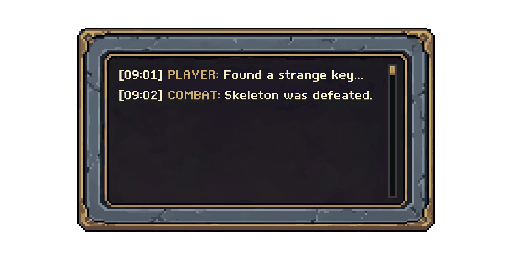
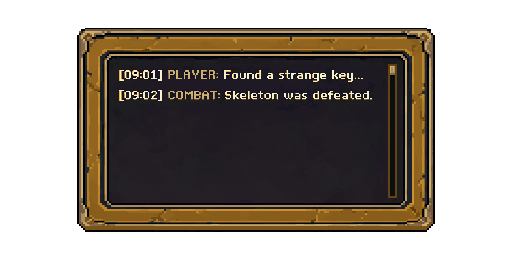
CAS-458: Nueva-partida confirm dialog (red destructive) + gold console frame
- Pause 'Nueva partida (borrar guardado)' now reads destructive-red and ARMS an
  explicit confirmation dialog ('¿Borrar la partida guardada? — no se puede deshacer'
  · SÍ, BORRAR / Cancelar); while armed the replay+new-game band is not tap-registered
  so a stray tap can never fall through and wipe a run (pauseTap first-match-wins).
- Chat console frame recolored grey-stone → gold/brass to match the stat/paperdoll/
  backpack HUD panels (tools/cas458-console-gold.mjs: luminance-preserving chroma remap,
  geometry pixel-identical so hud.js WELL.con stays valid).
- Incidental mobile fixes already staged in the render.js working tree by prior runs:
  CAS-1174 ≤480px zone/objetivo/tracker reflow + minimap/consumable scaling, CAS-453
  modal hint auto-fit (hintFit) so 390px shortcut lines no longer clip.

Changed region(s): [[0.1562, 0.125, 0.8438, 0.9062], [0.6562, 0.375, 0.6875, 0.4062]]

diff --git a/render/render.js b/render/render.js
@@ -1218,14 +1218,19 @@ export function createRenderer(ctx){
     // kept always-visible (even rank 0, with kills-to-next) so the long-term hook that grows
     // across sessions is legible from minute one. CAS-299: reflows under the HUD panel.
     { const mr=sim.masteryRank(h.eliteKills|0); const nx=sim.masteryNextAt(mr);
-      ctx.save(); ctx.fillStyle=COL.textGold; ctx.font="bold 12px 'Courier New'"; ctx.textAlign="left";
+      ctx.save(); ctx.font="bold 12px 'Courier New'"; ctx.textAlign="left";
       const prog = nx!=null ? (" "+(h.eliteKills|0)+"/"+nx) : " MÁX";
       // CAS-150: "(V)" hint opens the reward-track panel — only while a milestone is still
       // pending (an unmet goal to chase), so a fully-unlocked track stays clean.
       const hint = sim.masteryNextMilestone(h.eliteKills|0) ? " (V)" : "";
       const mby=hudUI?238:pad+14; const mtx=STR.masteryHud(mr)+prog+hint;
-      if(auditRects) AR("masteryBadge", badgeX, mby-12, ctx.measureText(mtx).width, 14);
-      ctx.fillText(mtx, badgeX, mby); ctx.restore(); ctx.textAlign="left"; }
+      const mtw=ctx.measureText(mtx).width;
+      // CAS-457: semi-transparent banner plate so the gold badge reads over light grass
+      // (poor contrast otherwise). Same style as the OBJETIVO banner: dark plate + accent tick.
+      ctx.fillStyle="rgba(8,10,14,0.72)"; ctx.fillRect(badgeX-6,mby-12,mtw+12,17);
+      ctx.fillStyle=COL.textGold; ctx.fillRect(badgeX-6,mby-12,3,17);
+      if(auditRects) AR("masteryBadge", badgeX, mby-12, mtw, 14);
+      ctx.fillStyle=COL.textGold; ctx.fillText(mtx, badgeX, mby); ctx.restore(); ctx.textAlign="left"; }
     if(!hudUI){ // gold + potions (HUD shows oro + carries equip/bag mirror)
       ctx.font="bold 13px 'Courier New'"; ctx.fillStyle=COL.gold; ctx.fillText(STR.gold(h.gold),pad,pad+66);
       ctx.fillStyle=COL.cream; ctx.fillText("♥"+h.potHP+"  ◆"+h.potMP+"  ✦"+h.blessings, pad,pad+84);
@@ -1237,10 +1242,18 @@ export function createRenderer(ctx){
       else { ctx.fillStyle=COL.textDim; ctx.font="12px 'Courier New'"; ctx.fillText(h.name, pad, pad+102); }
     }
     // zone name
-    ctx.textAlign="center"; ctx.fillStyle=COL.textDim; ctx.font="11px 'Courier New'";
+    ctx.font="11px 'Courier New'";
     const zn={town:STR.zoneTown,forest:STR.zoneForest,caves:STR.zoneCaves,arena:STR.zoneArena,ruins:STR.zoneRuins,abyss:STR.zoneAbyss,frost:STR.zoneFrost,trial:STR.zoneTrial,field:STR.zoneField}[zoneOf(world,h.x,h.y)];
-    AR("zone", VW/2-ctx.measureText(zn).width/2, 10, ctx.measureText(zn).width, 12);
-    ctx.fillText(zn, VW/2, 20);
+    const znw=ctx.measureText(zn).width;
+    // CAS-457: semi-transparent banner plate behind the zone label so it reads over light
+    // grass (same dark plate as the OBJETIVO banner). Plate is anchored to the label's edge.
+    const zpw=znw+12, zpx=(VW<=480)?(VW-12-znw-6):(VW/2-znw/2-6);
+    ctx.fillStyle="rgba(8,10,14,0.72)"; ctx.fillRect(zpx,8,zpw,16);
+    ctx.fillStyle=COL.textDim;
+    // CAS-1174: at ≤480px the centred zone name overlaps the top-left vitals panel;
+    // right-align it (clear of the stat frame) so nothing sits over the vitals.
+    if(VW<=480){ ctx.textAlign="right"; AR("zone", VW-12-znw, 10, znw, 12); ctx.fillText(zn, VW-12, 20); }
+    else { ctx.textAlign="center"; AR("zone", VW/2-znw/2, 10, znw, 12); ctx.fillText(zn, VW/2, 20); }
     // CAS-123: Stage-1 OBJECTIVE tracker — the single legible win-goal, top-centre and
     // ALWAYS visible so a new player reads where the run is headed from minute one. The
     // text + colour switch as the gate opens (locked → ready) and once the run is won.
@@ -1250,10 +1263,12 @@ export function createRenderer(ctx){
     // quest tracker (top-right under buttons). CAS-299: shift LEFT of the HUD right rail
     // (minimapa/equipo/mochila) so the trackers never sit under the rail frames.
     ctx.textAlign="right"; ctx.font="bold 12px 'Courier New'";
-    const qx=VW-(hudUI?176:12);
-    // CAS-452: at ≤480px the stat DOM panel (top:12, ~120px tall) covers the tracker;
-    // push tracker below the stat frame so it's visible on canvas at 390px.
-    let qy=isTouch?(VW<=480?124:64):18;
+    // CAS-1174: at ≤480px the right rail is a slide-out drawer (off-canvas), so don't
+    // reserve its 176px — anchor at VW-12 so the wide quest label never clips off-left.
+    const qx=(VW<=480)?(VW-12):(VW-(hudUI?176:12));
+    // CAS-452/CAS-1174: at ≤480px the stat DOM panel + drawer button cover the top strip;
+    // push the tracker stack below the vitals panel AND the relocated OBJETIVO banner.
+    let qy=(VW<=480)?138:(isTouch?64:18);
     ctx.fillStyle=COL.out; const qt=G.quest.done?STR.questDone:STR.questLabel(G.quest.wolves);
     const qw=ctx.measureText(qt).width+12;
     // CAS-416: at narrow widths the centred OBJETIVO banner reaches the tracker column;
@@ -1284,11 +1299,16 @@ export function createRenderer(ctx){
       else { txt=STR.objLocked(pw, req); col=COL.textGold; } }        // still building power
     const label=STR.objLabel+": "+txt;
     ctx.textAlign="center"; ctx.font="bold 11px 'Courier New'";
-    const w=ctx.measureText(label).width+16; let x=VW/2; const y=30;
+    const w=ctx.measureText(label).width+16; let x=VW/2; let y=30;
+    // CAS-1174: at ≤480px the banner is wider than the gap beside the vitals panel,
+    // so it can't sit top-centre without clipping/overlapping. Drop it BELOW the vitals
+    // panel + drawer button (y=112) and clamp both edges into the viewport so the full
+    // OBJETIVO text is always visible at 390px.
+    if(VW<=480){ y=112; x=Math.min(Math.max(x, w/2+8), VW-w/2-8); }
     // CAS-416: at narrow widths the centred banner reaches the HUD stat frame
     // (top-left DOM panel, 268px × HUD scale) — nudge it right just enough to clear.
     // CAS-452: also clamp left so banner never overflows the right viewport edge at 390px.
-    if(hudActive()){ const hs=VW>=1280?1:VW>=1024?0.92:VW>=640?0.84:VW>=480?0.78:0.70;
+    else if(hudActive()){ const hs=VW>=1280?1:VW>=1024?0.92:VW>=640?0.84:VW>=480?0.78:0.70;
       x=Math.min(Math.max(x, 12+268*hs+8+w/2), VW-w/2-12); }
     ctx.fillStyle="rgba(8,10,14,0.72)"; ctx.fillRect(x-w/2,y-1,w,18);
     ctx.fillStyle=col; ctx.fillRect(x-w/2,y-1,3,18);                  // accent tick
@@ -1317,7 +1337,7 @@ export function createRenderer(ctx){
     g.globalCompositeOperation="destination-in"; g.drawImage(base,0,0,32,32);
     _consumIcon[c.id]=cv; return cv;
   }
-  function renderConsumableSlot(h, hudUI){ if(isTouch) return; const s=44;
+  function renderConsumableSlot(h, hudUI){ if(isTouch || VW<=480) return; const s=44; // CAS-1174: hidden ≤480px (no room beside the scaled minimap); [Q] key still works
     // CAS-299: the legacy slot lives bottom-left, where the HUD console now sits. When the
     // HUD is active, reflow the quick-use slot to just LEFT of the spell bar (combat-coherent:
     // potions beside spells) so it never overlaps the console frame.
@@ -1411,7 +1431,7 @@ export function createRenderer(ctx){
       // CAS-456: larger mana cost label for readability (10px vs old 8px)
       if(costs[i]>0){ ctx.fillStyle=enoughMp?"#8ab8ff":"#e06060"; ctx.font="bold 10px 'Courier New'"; ctx.fillText(costs[i]+"mp",x+s/2,y+s+10);} }
   }
-  function renderMiniMap(){ const mw=120, mh=120; if(isTouch) return;
+  function renderMiniMap(){ const mw=(VW<=480)?84:120, mh=mw; if(isTouch) return; // CAS-1174: scale minimap to 84px ≤480px so it clears the bottom-centre spell bar
     // CAS-418: anchor from the layout store (default = bottom-right, unchanged), clamped every draw
     const x=uiLayout.cx("minimap", VW-mw-12, mw);
     const y=uiLayout.cy("minimap", VH-mh-12, mh);
@@ -1477,6 +1497,12 @@ export function createRenderer(ctx){
     ctx.fillStyle=COL.textDim; ctx.font="12px 'Courier New'"; ctx.textAlign="right"; ctx.fillText("E / tap ▸ "+STR.dialogContinue, x+bw-14, y+bh-12);
   }
   function wrapText(txt,x,y,maxW,lh){ const words=txt.split(" "); let line="",yy=y; for(const w of words){ const t=line+w+" "; if(ctx.measureText(t).width>maxW){ ctx.fillText(line,x,yy); line=w+" "; yy+=lh;} else line=t; } ctx.fillText(line,x,yy); }
+  // CAS-453: footer shortcut hints overflowed narrow (390px) modals and got clipped.
+  // Auto-shrink the font until the hint fits maxW (min 7px), then draw. Caller sets
+  // fillStyle + textAlign; we only own font size + fillText. Fixes "atajos recortados".
+  function hintFit(txt,cx,y,maxW,maxPx){ let px=maxPx||11; ctx.font=px+"px 'Courier New'";
+    while(px>7 && ctx.measureText(txt).width>maxW){ px--; ctx.font=px+"px 'Courier New'"; }
+    ctx.fillText(txt,cx,y); }
 
   // Compare arrow vs the piece currently equipped in this item's slot. Now factors
   // affixes in: a same-base-stat piece with stronger affixes still reads as an
@@ -1497,13 +1523,20 @@ export function createRenderer(ctx){
       ctx.fillText(txt,cx+18,by); return cx+18+ctx.measureText(txt).width+14; }
     ctx.fillText(glyph+" "+txt,cx,by); return cx+ctx.measureText(glyph+" "+txt).width+14; }
   function renderInventory(){ const bw=Math.min(VW*0.9,560), bh=Math.min(VH*0.85,470), x=(VW-bw)/2, y=(VH-bh)/2; const h=G.hero;
-    panel(x,y,bw,bh); ctx.textAlign="center"; ctx.fillStyle=COL.textGold; ctx.font="bold 18px 'Courier New'"; ctx.fillText(STR.invTitle,VW/2,y+28);
+    const narrow=VW<=480; // CAS-453: mobile (390px) layout guards
+    panel(x,y,bw,bh); ctx.fillStyle=COL.textGold;
+    // CAS-453: on narrow panels the centered title ran into the top-right "Forjar (G)"
+    // button — left-align + shrink it so it clears the button band.
+    if(narrow){ ctx.textAlign="left"; ctx.font="bold 15px 'Courier New'"; ctx.fillText(STR.invTitle,x+16,y+27); }
+    else { ctx.textAlign="center"; ctx.font="bold 18px 'Courier New'"; ctx.fillText(STR.invTitle,VW/2,y+28); }
     // ---- left: Tibia-style equip slots flanking the LIVE animated portrait ----
     // CAS-226. Only weapon/body/shield are functional (data-driven GEAR); the
     // other 7 slots are empty placeholders (no content/art yet) drawn dim. The
     // portrait shows the player's REAL class via the same baked per-state strip
     // (clshero_<cls>) the world renderer uses — animated idle, not a placeholder.
-    const leftW=bw*0.50, SS=Math.min(40,Math.round(bh*0.085)), rgap=SS+19;
+    // CAS-453: shrink slot size on narrow panels so the two edge columns + the hands
+    // row (2 slots) no longer overlap the centre portrait / each other at 390px.
+    const leftW=bw*0.50, SS=narrow?28:Math.min(40,Math.round(bh*0.085)), rgap=SS+19;
     ui.invSlotRects=[];
     // CAS-417: slots draw the real CAS-415 icon (icon_slot_<kind>, 32x32) — dimmed when
     // empty, full-strength as the ITEM icon when occupied (gear type == slot kind). The
@@ -1608,7 +1641,7 @@ export function createRenderer(ctx){
       for(const [lbl,dv] of parts){ const tk=deltaTok(dv); const seg=lbl+" "; ctx.fillStyle=COL.textDim; ctx.fillText(seg,dx,dyb); dx+=ctx.measureText(seg).width;
         ctx.fillStyle=tk.c; ctx.fillText(tk.t+"  ",dx,dyb); dx+=ctx.measureText(tk.t+"  ").width; }
     }
-    ctx.textAlign="center"; ctx.fillStyle=COL.textDim; ctx.font="11px 'Courier New'"; ctx.fillText(STR.equipHint,VW/2,y+bh-6);
+    ctx.textAlign="center"; ctx.fillStyle=COL.textDim; hintFit(STR.equipHint,VW/2,y+bh-7,bw-20,11);
     // ---- CAS-419: DnD overlays — reject flash, target highlights, cursor ghost. ----
     // Pure presentation read from input state (ui.invDrag / ui.invReject) in the same
     // per-frame modal pass; zero RNG, zero state mutation (drops resolve in sim seams).
@@ -1687,7 +1720,7 @@ export function createRenderer(ctx){
     }
     // description box (hovered, else keyboard-focused node)
     const dn = hover || talentNode(h.cls, focusId);
-    const dy=y+bh-92, dbx=x+24, dbw=bw-48, dbh=52;
+    const dy=y+bh-100, dbx=x+24, dbw=bw-48, dbh=50; // CAS-453: freed footer room for button+hint
     panelLocal(dbx,dy,dbw,dbh);
     if(dn){ const st=nodeState(h,dn); ctx.textAlign="left";
       ctx.fillStyle=COL.textGold; ctx.font="bold 12px 'Courier New'"; ctx.fillText(dn.name+"  ["+STR.talentRank(nodeRank(h,dn.id),dn.max)+"]", dbx+10, dy+18);
@@ -1696,13 +1729,14 @@ export function createRenderer(ctx){
       if(lr==="req") hint=STR.talentLocked; else if(lr==="excl") hint=STR.talentExcl; else if(lr==="pts") hint=STR.talentNoPts; else if(lr==="max") hint="MÁX";
       if(hint){ ctx.fillStyle="#d0a0a0"; ctx.font="10px 'Courier New'"; ctx.fillText(hint, dbx+10, dy+48); }
     }
-    // respec button + hint
-    const rbw=210, rbh=26, rbx=VW/2-rbw/2, rby=y+bh-32;
+    // respec button + hint — CAS-453: button lifted so the shortcut line no longer
+    // renders behind it; hint auto-fits the panel width.
+    const rbw=Math.min(210,bw-40), rbh=24, rbx=VW/2-rbw/2, rby=y+bh-44;
     const canR=talentSpent(h)>0;
     ctx.fillStyle=canR?"#3a2c1e":"#23262c"; ctx.fillRect(rbx,rby,rbw,rbh);
-    ctx.textAlign="center"; ctx.fillStyle=canR?COL.cream:COL.textDim; ctx.font="12px 'Courier New'"; ctx.fillText(STR.talentRespecBtn,VW/2,rby+17);
+    ctx.textAlign="center"; ctx.fillStyle=canR?COL.cream:COL.textDim; ctx.font="12px 'Courier New'"; ctx.fillText(STR.talentRespecBtn,VW/2,rby+16);
     ui.talentRects.push({x:rbx,y:rby,w:rbw,h:rbh, act:()=>sim.respecTalents()});
-    ctx.fillStyle=COL.textDim; ctx.font="10px 'Courier New'"; ctx.fillText(STR.talentHint, VW/2, y+bh-6);
+    ctx.fillStyle=COL.textDim; hintFit(STR.talentHint, VW/2, y+bh-6, bw-24, 10);
   }
 
   // CAS-150 — ELITE-MASTERY REWARD-TRACK panel. The cross-session hook made legible: a
@@ -1813,10 +1847,11 @@ export function createRenderer(ctx){
       // full-row select rect (keyboard/tap focus); pushed to the BACK so a button tap on the same row wins first
       ui.forgeRects.push({x:x+20,y:ry,w:bw-40,h:ih-10, sel:i});
     }
-    const cy=y+bh-28; ctx.fillStyle="#3a2c1e"; ctx.fillRect(x+bw/2-60,cy,120,22);
+    // CAS-453: close button lifted clear of the shortcut line (was drawn over it).
+    const cy=y+bh-42; ctx.fillStyle="#3a2c1e"; ctx.fillRect(x+bw/2-60,cy,120,22);
     ctx.textAlign="center"; ctx.fillStyle=COL.cream; ctx.font="12px 'Courier New'"; ctx.fillText("Cerrar (G)",VW/2,cy+15);
     ui.forgeRects.push({x:x+bw/2-60,y:cy,w:120,h:22,act:()=>{G.scene="play";}});
-    ctx.fillStyle=COL.textDim; ctx.font="11px 'Courier New'"; ctx.fillText(STR.forgeHint,VW/2,y+bh-8);
+    ctx.fillStyle=COL.textDim; hintFit(STR.forgeHint,VW/2,y+bh-8,bw-24,11);
   }
 
   // CAS-134: the Bounty Board — today's daily contracts (progress + claim) and the login
@@ -2240,22 +2275,34 @@ export function createRenderer(ctx){
     }
     // ---- pinned footer (Resume + replay guide + new game) ----
     let fy=y+bh-118;
-    ctx.textAlign="center"; ctx.fillStyle="#20262f"; ctx.fillRect(px,fy,pw,24); ctx.fillStyle=COL.cream; ctx.font="12px 'Courier New'"; ctx.fillText(STR.tutReplay,VW/2,fy+16);
-    // CAS-267: "reset onboarding" — replay now AND re-arm the persisted first-load
-    // flag (clearTutSeen) so the coachmark also auto-shows again on the next fresh load.
-    ui.pauseRects.push({x:px,y:fy,w:pw,h:24,act:()=>{ clearTutSeen(); G.scene="play"; sim.startTutorial(); }}); fy+=30;
-    // CAS-113: "Nueva partida" — two-tap arm/confirm so a misclick can't nuke a run.
+    // CAS-113/CAS-458: "Nueva partida" wipes the save. The base button reads destructive-red
+    // so the danger registers before the first tap, and tapping it ARMS an explicit
+    // confirmation dialog (not a bare button swap). While armed the dialog covers the
+    // replay + new-game band and those two buttons are NOT registered — pauseTap is
+    // first-match-wins, so a stray tap can never fall through the dialog and nuke a run.
     if(G.resetArm){
-      const half=(pw-8)/2;
-      ctx.fillStyle="#3a2222"; ctx.fillRect(px,fy,half,24); ctx.fillStyle="#f0a0a0"; ctx.font="bold 11px 'Courier New'"; ctx.fillText("SÍ, BORRAR",px+half/2,fy+16);
-      ui.pauseRects.push({x:px,y:fy,w:half,h:24,act:()=>{ G.resetArm=false; resetGame(); }});
-      ctx.fillStyle="#20262f"; ctx.fillRect(px+half+8,fy,half,24); ctx.fillStyle=COL.cream; ctx.fillText("Cancelar",px+half+8+half/2,fy+16);
-      ui.pauseRects.push({x:px+half+8,y:fy,w:half,h:24,act:()=>{ G.resetArm=false; }});
+      const dh=54;
+      ctx.textAlign="center";
+      ctx.fillStyle="rgba(48,16,16,0.97)"; ctx.fillRect(px,fy,pw,dh);
+      ctx.strokeStyle="#8a3030"; ctx.lineWidth=2; ctx.strokeRect(px+1,fy+1,pw-2,dh-2);
+      ctx.fillStyle="#f2b2b2"; ctx.font="bold 12px 'Courier New'"; ctx.fillText("¿Borrar la partida guardada?",VW/2,fy+16);
+      ctx.fillStyle="#d79494"; ctx.font="10px 'Courier New'"; ctx.fillText("Esta acción no se puede deshacer.",VW/2,fy+30);
+      const half=(pw-16)/2, byb=fy+35;
+      ctx.fillStyle="#a51f1f"; ctx.fillRect(px+4,byb,half,15); ctx.strokeStyle="#e07070"; ctx.lineWidth=1; ctx.strokeRect(px+4.5,byb+0.5,half-1,14);
+      ctx.fillStyle="#ffe0e0"; ctx.font="bold 11px 'Courier New'"; ctx.fillText("SÍ, BORRAR",px+4+half/2,byb+11);
+      ui.pauseRects.push({x:px+4,y:byb,w:half,h:15,act:()=>{ G.resetArm=false; resetGame(); }});
+      ctx.fillStyle="#20262f"; ctx.fillRect(px+12+half,byb,half,15); ctx.fillStyle=COL.cream; ctx.font="bold 11px 'Courier New'"; ctx.fillText("Cancelar",px+12+half+half/2,byb+11);
+      ui.pauseRects.push({x:px+12+half,y:byb,w:half,h:15,act:()=>{ G.resetArm=false; }});
     } else {
-      ctx.fillStyle="#2a1c14"; ctx.fillRect(px,fy,pw,24); ctx.fillStyle="#caa07a"; ctx.font="12px 'Courier New'"; ctx.fillText("Nueva partida (borrar guardado)",VW/2,fy+16);
-      ui.pauseRects.push({x:px,y:fy,w:pw,h:24,act:()=>{ G.resetArm=true; }});
+      ctx.textAlign="center"; ctx.fillStyle="#20262f"; ctx.fillRect(px,fy,pw,24); ctx.fillStyle=COL.cream; ctx.font="12px 'Courier New'"; ctx.fillText(STR.tutReplay,VW/2,fy+16);
+      // CAS-267: "reset onboarding" — replay now AND re-arm the persisted first-load coachmark flag.
+      ui.pauseRects.push({x:px,y:fy,w:pw,h:24,act:()=>{ clearTutSeen(); G.scene="play"; sim.startTutorial(); }});
+      const ny=fy+30;
+      ctx.fillStyle="#3a1616"; ctx.fillRect(px,ny,pw,24); ctx.strokeStyle="#7a2a2a"; ctx.lineWidth=1; ctx.strokeRect(px+0.5,ny+0.5,pw-1,23);
+      ctx.fillStyle="#e79090"; ctx.font="12px 'Courier New'"; ctx.fillText("Nueva partida (borrar guardado)",VW/2,ny+16);
+      ui.pauseRects.push({x:px,y:ny,w:pw,h:24,act:()=>{ G.resetArm=true; }});
     }
-    fy+=32;
+    fy+=62;
     ctx.fillStyle="#3a2c1e"; ctx.fillRect(VW/2-90,fy,180,30); ctx.fillStyle=COL.textGold; ctx.font="bold 14px 'Courier New'"; ctx.fillText(STR.resume,VW/2,fy+20);
     ui.pauseRects.push({x:VW/2-90,y:fy,w:180,h:30,act:()=>{ G.resetArm=false; G.rebind=null; G.scene="play"; }});
   }
@@ -2499,7 +2546,7 @@ export function createRenderer(ctx){
     rrng.seed(11); for(let i=0;i<40;i++){ ctx.fillStyle=i%9===0?"#2a3a2a":"#161b22"; ctx.fillRect(rr(0,VW),rr(0,VH),2,2); }
     ctx.textAlign="center";
     ctx.fillStyle=COL.textGold; ctx.font="bold 22px 'Courier New'"; ctx.fillText(STR.customizeTitle, VW/2, 34);
-    ctx.fillStyle=COL.cream; ctx.font="11px 'Courier New'"; ctx.fillText(STR.customizeHint, VW/2, 54);
+    ctx.fillStyle=COL.cream; hintFit(STR.customizeHint, VW/2, 54, VW-24, 11);
 
     // ---- live preview (baked clshero strip, breathing idle loop) ----
     const pvW=Math.min(150,VW*0.34), pvX=VW*0.5-VW*0.30, pvY=72, pvH=Math.min(190,VH*0.34);
@@ -2548,7 +2595,7 @@ export function createRenderer(ctx){
     }
     // ---- buttons ----
     ctx.textAlign="center";
-    const by=VH-46, bw=Math.min(150,VW*0.4), bh=32, gap=14;
+    const by=VH-54, bw=Math.min(150,VW*0.4), bh=32, gap=14; // CAS-453: lifted clear of keys hint
     const dX=VW/2+gap/2, sX=VW/2-gap/2-bw;
     ctx.fillStyle="#1d3324"; ctx.fillRect(dX,by,bw,bh); ctx.strokeStyle=COL.heal; ctx.lineWidth=2; ctx.strokeRect(dX,by,bw,bh);
     ctx.fillStyle=COL.heal; ctx.font="bold 14px 'Courier New'"; ctx.fillText(STR.customizeDone, dX+bw/2, by+21);
@@ -2556,7 +2603,7 @@ export function createRenderer(ctx){
     ctx.fillStyle=COL.textGold; ctx.fillText(STR.customizeReset, sX+bw/2, by+21);
     ui.customRects.push({kind:"done",x:dX,y:by,w:bw,h:bh});
     ui.customRects.push({kind:"reset",x:sX,y:by,w:bw,h:bh});
-    ctx.fillStyle=COL.textDim; ctx.font="10px 'Courier New'"; ctx.fillText(STR.customizeKeys, VW/2, VH-8);
+    ctx.fillStyle=COL.textDim; hintFit(STR.customizeKeys, VW/2, VH-8, VW-24, 10);
     ctx.textAlign="left";
   }
   function drawMenuEmblem(x,y){ ctx.save(); ctx.translate(x,y);
